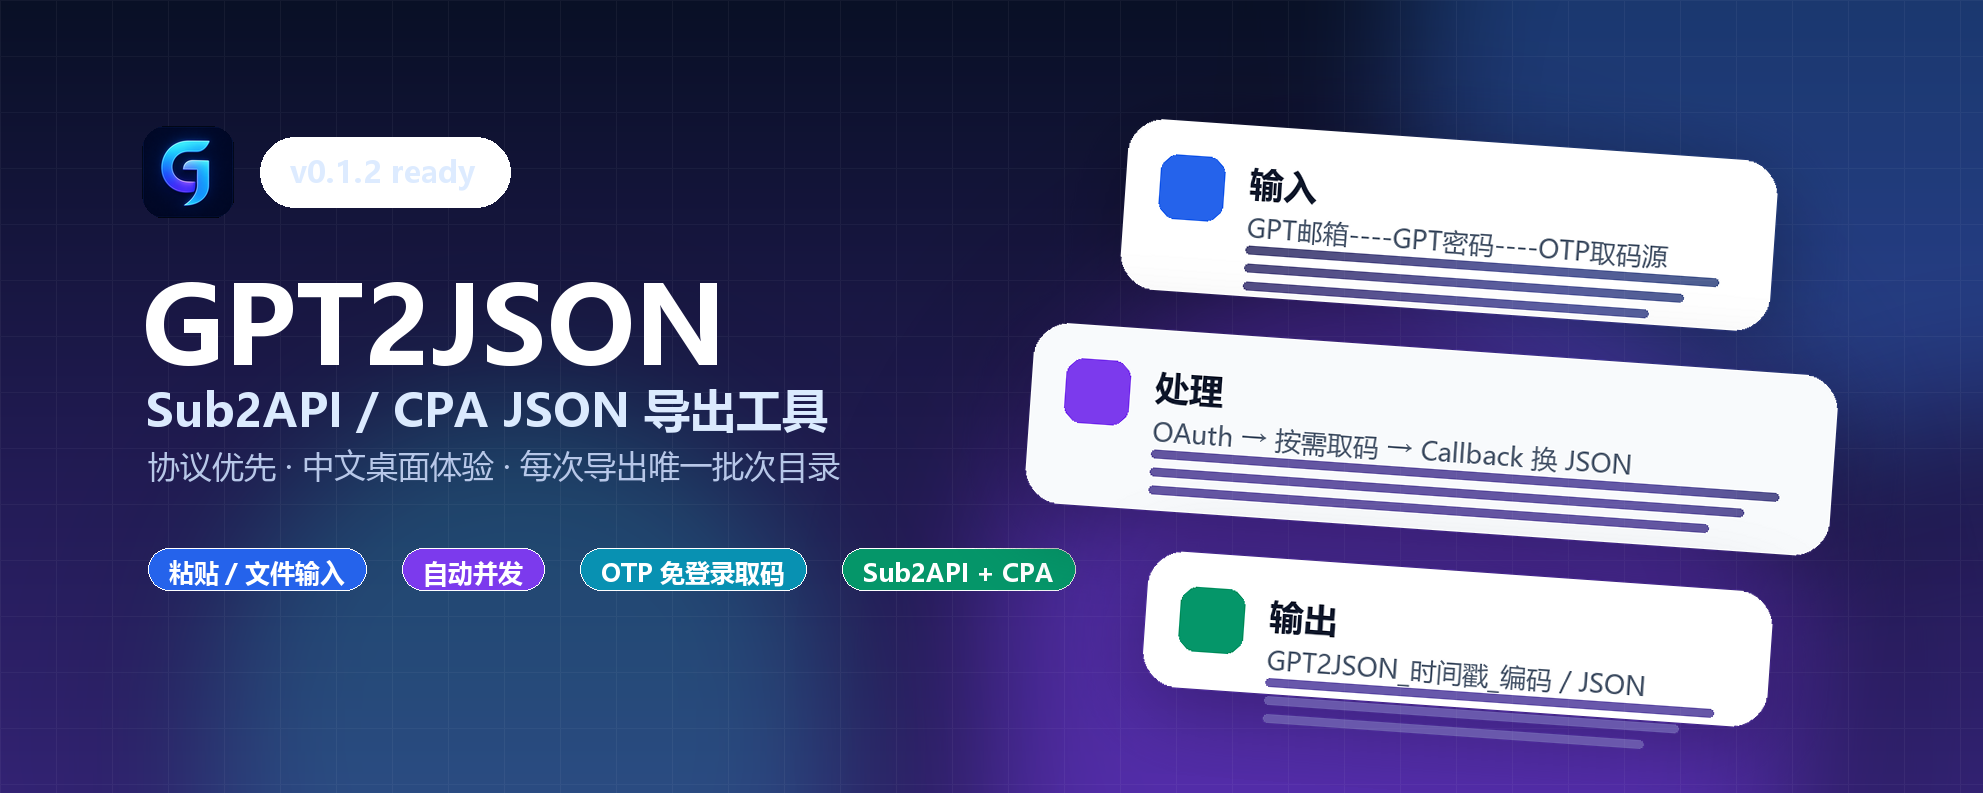
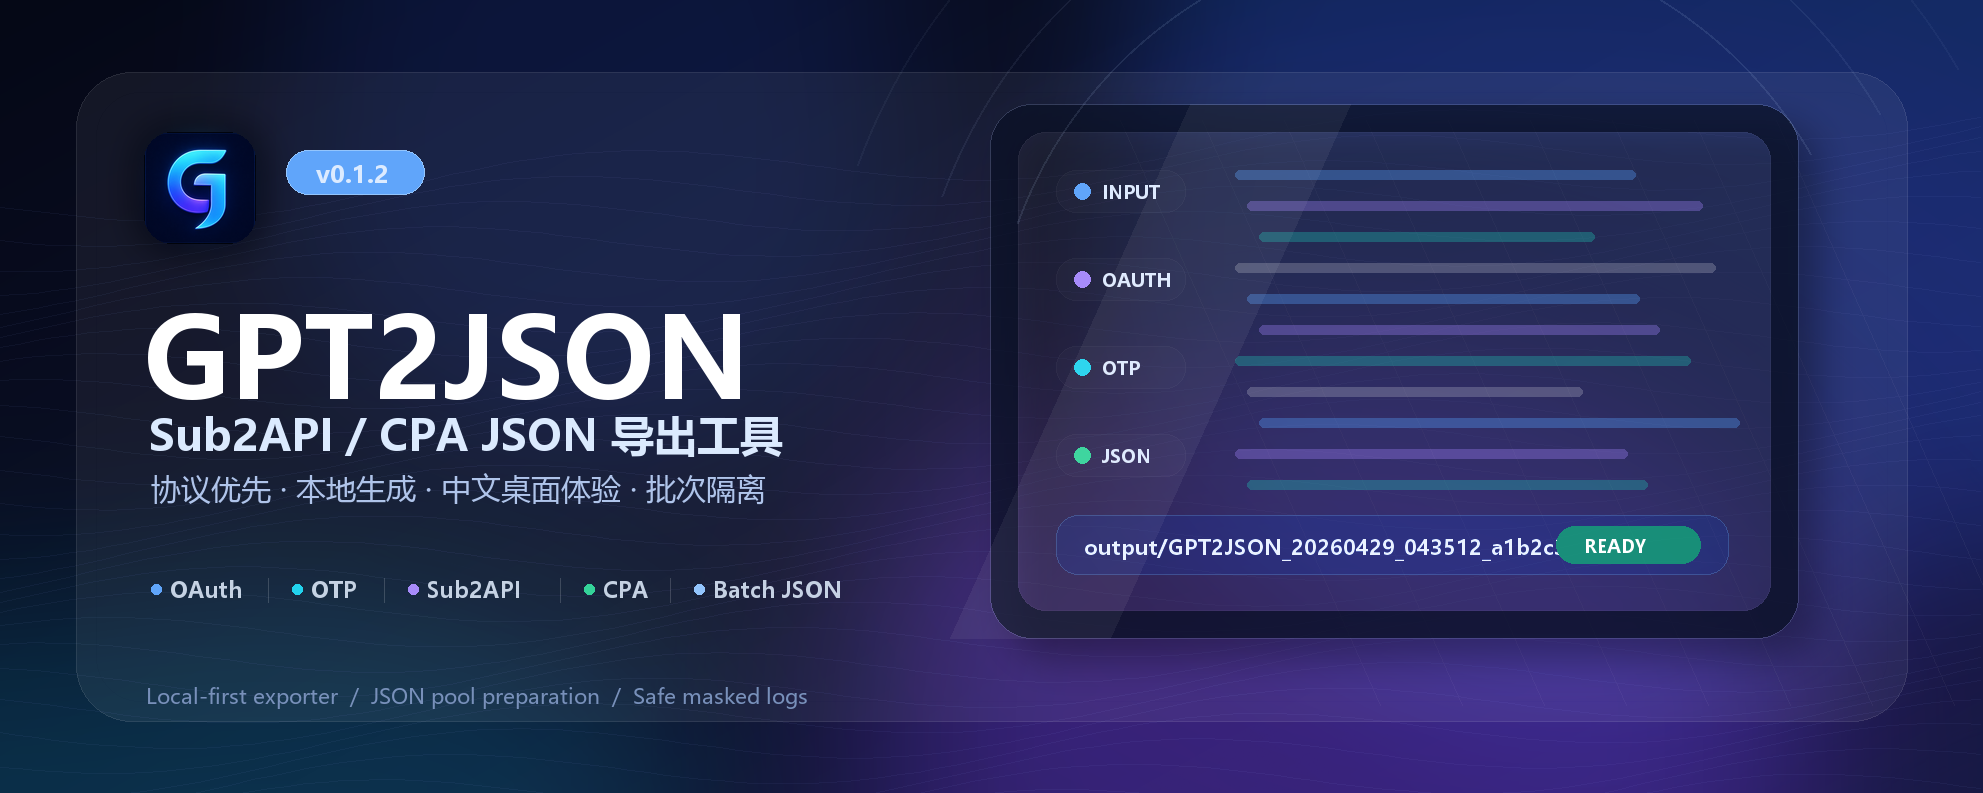
Refresh README hero and installer preview

diff --git a/scripts/generate_docs_assets.py b/scripts/generate_docs_assets.py
@@ -62,149 +62,149 @@ def draw_pill(draw: ImageDraw.ImageDraw, xy: tuple[int, int], text: str, fill: s
 
 
 def create_hero() -> None:
+    """Generate the README hero as a premium product banner.
+
+    Keep this deterministic and code-native so the project front page can be
+    refreshed without relying on a stale AI mockup.
+    """
+
     version = project_version()
     width, height = 1983, 793
-    img = vertical_gradient((width, height), (9, 16, 38), (51, 35, 116)).convert("RGBA")
+
+    img = Image.new("RGB", (width, height), "#050816")
+    pixels = img.load()
+    for y in range(height):
+        for x in range(width):
+            nx = x / width
+            ny = y / height
+            c1 = (5, 8, 22)
+            c2 = (21, 28, 68)
+            c3 = (41, 23, 92)
+            t = min(1, max(0, nx * 0.58 + ny * 0.42))
+            mid = tuple(int(c1[i] * (1 - t) + c2[i] * t) for i in range(3))
+            glow = max(0, 1 - ((nx - 0.78) ** 2 / 0.16 + (ny - 0.55) ** 2 / 0.38))
+            pixels[x, y] = tuple(min(255, int(mid[i] * (1 - glow * 0.55) + c3[i] * glow * 0.55)) for i in range(3))
+    img = img.convert("RGBA")
     draw = ImageDraw.Draw(img)
 
-    # Soft aurora blobs.
-    for cx, cy, r, color in [
-        (1740, 130, 390, (59, 130, 246, 90)),
-        (1390, 650, 460, (124, 58, 237, 110)),
-        (520, 710, 360, (20, 184, 166, 70)),
-    ]:
-        blob = Image.new("RGBA", (width, height), (0, 0, 0, 0))
-        ImageDraw.Draw(blob).ellipse((cx - r, cy - r, cx + r, cy + r), fill=color)
-        img.alpha_composite(blob.filter(ImageFilter.GaussianBlur(80)))
+    def add_blur_ellipse(box: tuple[int, int, int, int], color: tuple[int, int, int, int], blur: int) -> None:
+        layer = Image.new("RGBA", img.size, (0, 0, 0, 0))
+        ImageDraw.Draw(layer).ellipse(box, fill=color)
+        img.alpha_composite(layer.filter(ImageFilter.GaussianBlur(blur)))
 
-    # Fine grid.
-    grid = Image.new("RGBA", (width, height), (0, 0, 0, 0))
-    g = ImageDraw.Draw(grid)
-    for x in range(0, width, 56):
-        g.line((x, 0, x, height), fill=(255, 255, 255, 12), width=1)
-    for y in range(0, height, 56):
-        g.line((0, y, width, y), fill=(255, 255, 255, 10), width=1)
-    img.alpha_composite(grid)
+    add_blur_ellipse((1040, -250, 2100, 760), (37, 99, 235, 72), 90)
+    add_blur_ellipse((780, 290, 1900, 1050), (124, 58, 237, 86), 115)
+    add_blur_ellipse((-220, 510, 780, 1120), (6, 182, 212, 48), 120)
+    add_blur_ellipse((210, -170, 970, 520), (30, 64, 175, 50), 95)
 
-    # Logo chip.
+    mesh = Image.new("RGBA", img.size, (0, 0, 0, 0))
+    mesh_draw = ImageDraw.Draw(mesh)
+    for i in range(-12, 42):
+        points = []
+        for x in range(0, width + 1, 18):
+            y = 470 + math.sin(x / 130 + i * 0.52) * 24 + i * 22 - x * 0.05
+            points.append((x, y))
+        mesh_draw.line(points, fill=(148, 163, 255, 13), width=1)
+    for i in range(9):
+        x0 = 1120 + i * 82
+        mesh_draw.line((x0, 120, x0 + 260, 705), fill=(255, 255, 255, 10), width=1)
+    img.alpha_composite(mesh)
+
+    frame = Image.new("RGBA", img.size, (0, 0, 0, 0))
+    frame_draw = ImageDraw.Draw(frame)
+    frame_draw.rounded_rectangle((76, 72, width - 76, height - 72), 56, fill=(255, 255, 255, 14), outline=(255, 255, 255, 34), width=1)
+    frame_draw.rounded_rectangle((96, 92, width - 96, height - 92), 44, outline=(255, 255, 255, 12), width=1)
+    img.alpha_composite(frame)
+
     icon_path = ROOT / "gpt2json" / "assets" / "gpt2json_icon_light.png"
     if icon_path.exists():
-        icon = Image.open(icon_path).convert("RGBA").resize((92, 92), Image.Resampling.LANCZOS)
-        mask = Image.new("L", (92, 92), 0)
-        ImageDraw.Draw(mask).rounded_rectangle((0, 0, 92, 92), 24, fill=255)
+        icon = Image.open(icon_path).convert("RGBA").resize((112, 112), Image.Resampling.LANCZOS)
+        mask = Image.new("L", (112, 112), 0)
+        ImageDraw.Draw(mask).rounded_rectangle((0, 0, 111, 111), 28, fill=255)
         icon.putalpha(mask)
-        img.alpha_composite(icon, (142, 126))
-    draw.rounded_rectangle((260, 137, 510, 207), 35, fill=(255, 255, 255, 18), outline=(255, 255, 255, 45), width=1)
-    draw.text((290, 151), f"v{version} ready", font=font(30, bold=True), fill="#DDEBFF")
+        shadow = Image.new("RGBA", img.size, (0, 0, 0, 0))
+        shadow.alpha_composite(icon, (144, 132))
+        img.alpha_composite(shadow.filter(ImageFilter.GaussianBlur(18)))
+        img.alpha_composite(icon, (144, 132))
 
-    draw.text((142, 250), "GPT2JSON", font=font(108, bold=True), fill="#FFFFFF")
-    draw.text((146, 378), "Sub2API / CPA JSON 导出工具", font=font(46, bold=True), fill="#DBEAFE")
-    draw.text((148, 444), "协议优先 · 中文桌面体验 · 每次导出唯一批次目录", font=font(32), fill="#B7C7E8")
+    draw.rounded_rectangle((286, 150, 424, 194), 22, fill=(96, 165, 250, 30), outline=(147, 197, 253, 82), width=1)
+    draw.text((316, 157), f"v{version}", font=font(24, bold=True), fill="#DCEBFF")
+    draw.text((144, 280), "GPT2JSON", font=font(112, bold=True), fill="#FFFFFF")
+    draw.text((149, 405), "Sub2API / CPA JSON 导出工具", font=font(43, bold=True), fill="#DBEAFE")
+    draw.text((151, 468), "协议优先 · 本地生成 · 中文桌面体验 · 批次隔离", font=font(30), fill="#AFC4EA")
 
-    x = 148
-    for label, color in [
-        ("粘贴 / 文件输入", "#2563EB"),
-        ("自动并发", "#7C3AED"),
-        ("OTP 免登录取码", "#0891B2"),
-        ("Sub2API + CPA", "#059669"),
-    ]:
-        draw_pill(draw, (x, 548), label, color)
-        x += draw.textbbox((0, 0), label, font=font(25, bold=True))[2] + 78
+    # Minimal capability row: fine separators instead of heavy badges.
+    cap_layer = Image.new("RGBA", img.size, (0, 0, 0, 0))
+    cap_draw = ImageDraw.Draw(cap_layer)
+    cap_specs = [(151, "OAuth", "#60A5FA"), (292, "OTP", "#22D3EE"), (408, "Sub2API", "#A78BFA"), (584, "CPA", "#34D399"), (694, "Batch JSON", "#93C5FD")]
+    for index, (x, label, color) in enumerate(cap_specs):
+        cap_draw.ellipse((x, 584, x + 10, 594), fill=color)
+        cap_draw.text((x + 19, 574), label, font=font(22, bold=True), fill=(226, 239, 255, 218))
+        if index < len(cap_specs) - 1:
+            next_x = cap_specs[index + 1][0]
+            cap_draw.line((next_x - 24, 578, next_x - 24, 602), fill=(255, 255, 255, 42), width=1)
+    img.alpha_composite(cap_layer)
 
-    # Right product cards.
-    card_layer = Image.new("RGBA", (width, height), (0, 0, 0, 0))
-    cd = ImageDraw.Draw(card_layer)
-    cards = [
-        ((1110, 140, 1760, 310), "#FFFFFF", "输入", "GPT邮箱----GPT密码----OTP取码源", "#2563EB"),
-        ((1030, 350, 1835, 530), "#F8FAFC", "处理", "OAuth → 按需取码 → Callback 换 JSON", "#7C3AED"),
-        ((1160, 570, 1785, 705), "#FFFFFF", "输出", "GPT2JSON_时间戳_编码 / JSON", "#059669"),
-    ]
-    for box, fill, title, body, accent in cards:
-        card_layer.alpha_composite(rounded_rect_layer((width, height), box, 36, fill, shadow=(0, 18, 40, (0, 0, 0, 70))))
-        cd.rounded_rectangle((box[0] + 34, box[1] + 34, box[0] + 98, box[1] + 98), 18, fill=accent)
-        cd.text((box[0] + 124, box[1] + 34), title, font=font(34, bold=True), fill="#0F172A")
-        cd.text((box[0] + 124, box[1] + 84), body, font=font(26), fill="#475569")
-        for i in range(3):
-            y = box[1] + 120 + i * 18
-            cd.rounded_rectangle((box[0] + 124, y, box[2] - 52 - i * 34, y + 8), 4, fill=(148, 163, 184, 95))
-    card_layer = card_layer.rotate(-4, resample=Image.Resampling.BICUBIC, center=(1450, 420))
-    img.alpha_composite(card_layer)
+    shadow = Image.new("RGBA", img.size, (0, 0, 0, 0))
+    shadow_draw = ImageDraw.Draw(shadow)
+    shadow_draw.rounded_rectangle((1010, 124, 1818, 658), 42, fill=(0, 0, 0, 86))
+    img.alpha_composite(shadow.filter(ImageFilter.GaussianBlur(18)))
 
+    panel = Image.new("RGBA", img.size, (0, 0, 0, 0))
+    panel_draw = ImageDraw.Draw(panel)
+    panel_draw.rounded_rectangle((990, 104, 1798, 638), 42, fill=(9, 16, 37, 185), outline=(186, 210, 255, 44), width=1)
+    panel_draw.rounded_rectangle((1018, 132, 1770, 610), 28, fill=(255, 255, 255, 9), outline=(255, 255, 255, 18), width=1)
+
+    for i, (label, color) in enumerate([("INPUT", "#60A5FA"), ("OAUTH", "#A78BFA"), ("OTP", "#22D3EE"), ("JSON", "#34D399")]):
+        y = 170 + i * 88
+        panel_draw.rounded_rectangle((1056, y, 1185, y + 42), 20, fill=(255, 255, 255, 13), outline=(255, 255, 255, 20))
+        panel_draw.ellipse((1074, y + 13, 1090, y + 29), fill=color)
+        panel_draw.text((1102, y + 9), label, font=font(18, bold=True), fill="#DDEAFF")
+
+    for i in range(11):
+        y = 170 + i * 31
+        x = 1235 + (i % 3) * 12
+        line_width = [400, 455, 335, 480, 392][i % 5]
+        fill = [(96, 165, 250, 95), (167, 139, 250, 92), (45, 212, 191, 84), (255, 255, 255, 58)][i % 4]
+        panel_draw.rounded_rectangle((x, y, x + line_width, y + 9), 5, fill=fill)
+
+    panel_draw.rounded_rectangle((1056, 515, 1728, 574), 22, fill=(37, 99, 235, 44), outline=(96, 165, 250, 90), width=1)
+    panel_draw.text((1084, 532), "output/GPT2JSON_20260429_043512_a1b2c3/", font=font(21, bold=True), fill="#EAF2FF")
+    panel_draw.rounded_rectangle((1556, 526, 1700, 563), 18, fill=(16, 185, 129, 180))
+    panel_draw.text((1584, 533), "READY", font=font(18, bold=True), fill="#FFFFFF")
+
+    reflection = Image.new("RGBA", img.size, (0, 0, 0, 0))
+    ImageDraw.Draw(reflection).polygon([(1190, 104), (1350, 104), (1110, 638), (950, 638)], fill=(255, 255, 255, 14))
+    panel.alpha_composite(reflection)
+    img.alpha_composite(panel)
+
+    arcs = Image.new("RGBA", img.size, (0, 0, 0, 0))
+    arc_draw = ImageDraw.Draw(arcs)
+    for radius, opacity in [(440, 28), (520, 18), (610, 12)]:
+        arc_draw.arc((1430 - radius, 374 - radius, 1430 + radius, 374 + radius), 200, 330, fill=(191, 219, 254, opacity), width=2)
+    img.alpha_composite(arcs)
+
+    draw.text((146, 681), "Local-first exporter  /  JSON pool preparation  /  Safe masked logs", font=font(21), fill="#7890BA")
     ASSET_DIR.mkdir(parents=True, exist_ok=True)
-    img.convert("RGB").save(ASSET_DIR / "hero.png", quality=95)
-
+    img.convert("RGB").save(ASSET_DIR / "hero.png", quality=96)
 
 def create_installer_preview() -> None:
-    version = project_version()
-    width, height = 1400, 840
-    img = vertical_gradient((width, height), (239, 246, 255), (245, 243, 255)).convert("RGBA")
-    draw = ImageDraw.Draw(img)
+    """Preserve the real installer screenshot used by README.
 
-    # Floating organic shell.
-    shell = Image.new("RGBA", (width, height), (0, 0, 0, 0))
-    sd = ImageDraw.Draw(shell)
-    sd.rounded_rectangle((108, 92, 1292, 748), 58, fill="#FFFFFF")
-    sd.ellipse((34, 190, 290, 550), fill="#FFFFFF")
-    sd.ellipse((1120, 122, 1350, 410), fill="#FFFFFF")
-    shell = shell.filter(ImageFilter.GaussianBlur(0.2))
-    shadow = Image.new("RGBA", (width, height), (0, 0, 0, 0))
-    ImageDraw.Draw(shadow).rounded_rectangle((128, 118, 1282, 768), 58, fill=(30, 41, 59, 55))
-    img.alpha_composite(shadow.filter(ImageFilter.GaussianBlur(34)))
-    img.alpha_composite(shell)
+    The installer is a transparent WPF shell, so a faithful preview is captured
+    from the running installer and then sanitized to remove the local username
+    from the install path.  Do not regenerate it as a synthetic mockup here.
+    """
 
-    # Left curved visual panel.
-    left = Image.new("RGBA", (width, height), (0, 0, 0, 0))
-    ld = ImageDraw.Draw(left)
-    ld.rounded_rectangle((100, 92, 602, 748), 58, fill="#0B1026")
-    ld.ellipse((430, 230, 790, 610), fill=(255, 255, 255, 0))
-    for i in range(5):
-        pts = []
-        for t in range(0, 220):
-            y = 690 - t * 2.6
-            x = 190 + i * 54 + math.sin(t / 24 + i) * 44 + t * 1.1
-            pts.append((x, y))
-        ld.line(pts, fill=(96, 165, 250, 70 + i * 18), width=6)
-    ld.ellipse((268, 250, 458, 440), outline=(255, 255, 255, 70), width=2)
-    ld.rounded_rectangle((258, 280, 468, 470), 42, fill=(37, 99, 235, 210))
-    ld.text((318, 318), "GJ", font=font(62, bold=True), fill="#FFFFFF")
-    ld.text((174, 560), "GPT2JSON", font=font(48, bold=True), fill="#FFFFFF")
-    ld.text((176, 620), "协议优先 · 本地导出 · 中文体验", font=font(24), fill="#CBD5E1")
-    img.alpha_composite(left)
-
-    # Elliptic cut-out visual cue.
-    cut = Image.new("RGBA", (width, height), (0, 0, 0, 0))
-    ImageDraw.Draw(cut).ellipse((500, 330, 700, 520), fill=(239, 246, 255, 255))
-    img.alpha_composite(cut.filter(ImageFilter.GaussianBlur(0.3)))
-    draw.ellipse((514, 344, 686, 506), outline="#D8B4FE", width=3)
-
-    # Right install content.
-    draw.text((730, 150), "安装", font=font(64, bold=True), fill="#111827")
-    draw.rounded_rectangle((844, 164, 964, 204), 20, fill="#EEF2FF")
-    draw.text((872, 170), f"v{version}", font=font(22, bold=True), fill="#4F46E5")
-    draw.text((732, 232), "选择安装位置后会自动创建 GPT2JSON 文件夹。", font=font(28), fill="#64748B")
-
-    draw.text((732, 310), "安装位置", font=font(24, bold=True), fill="#334155")
-    draw.rounded_rectangle((732, 348, 1168, 410), 18, fill="#F8FAFC", outline="#E2E8F0", width=2)
-    draw.text((758, 365), r"C:\Users\...\Programs\GPT2JSON", font=font(23), fill="#475569")
-    draw.rounded_rectangle((1186, 348, 1260, 410), 18, fill="#EEF2FF")
-    draw.text((1208, 365), "浏览", font=font(22, bold=True), fill="#4F46E5")
-
-    draw.text((732, 470), "安装进度", font=font(24, bold=True), fill="#334155")
-    draw.rounded_rectangle((732, 510, 1260, 528), 9, fill="#E2E8F0")
-    draw.rounded_rectangle((732, 510, 1118, 528), 9, fill="#2563EB")
-    draw.ellipse((1108, 501, 1138, 537), fill="#60A5FA")
-
-    for x, text, fill, fg in [
-        (732, "开始", "#2563EB", "#FFFFFF"),
-        (900, "取消", "#F1F5F9", "#334155"),
-    ]:
-        draw.rounded_rectangle((x, 610, x + 132, 666), 20, fill=fill, outline="#E2E8F0")
-        draw.text((x + 42, 624), text, font=font(24, bold=True), fill=fg)
-    draw.text((732, 700), "不会写入 GUI 偏好到注册表；卸载入口使用同风格外壳。", font=font(23), fill="#64748B")
-
-    ASSET_DIR.mkdir(parents=True, exist_ok=True)
-    img.convert("RGB").save(ASSET_DIR / "installer-preview.png", quality=95)
-
+    preview = ASSET_DIR / "installer-preview.png"
+    if preview.exists():
+        print(f"Preserved real installer screenshot: {preview}")
+        return
+    raise FileNotFoundError(
+        "installer-preview.png is intentionally a sanitized real screenshot. "
+        "Build the installer, capture it locally, sanitize the install path, "
+        "then save it to docs/assets/installer-preview.png."
+    )
 
 def capture_gui_previews() -> None:
     os.environ.setdefault("QT_QPA_PLATFORM", "offscreen")
